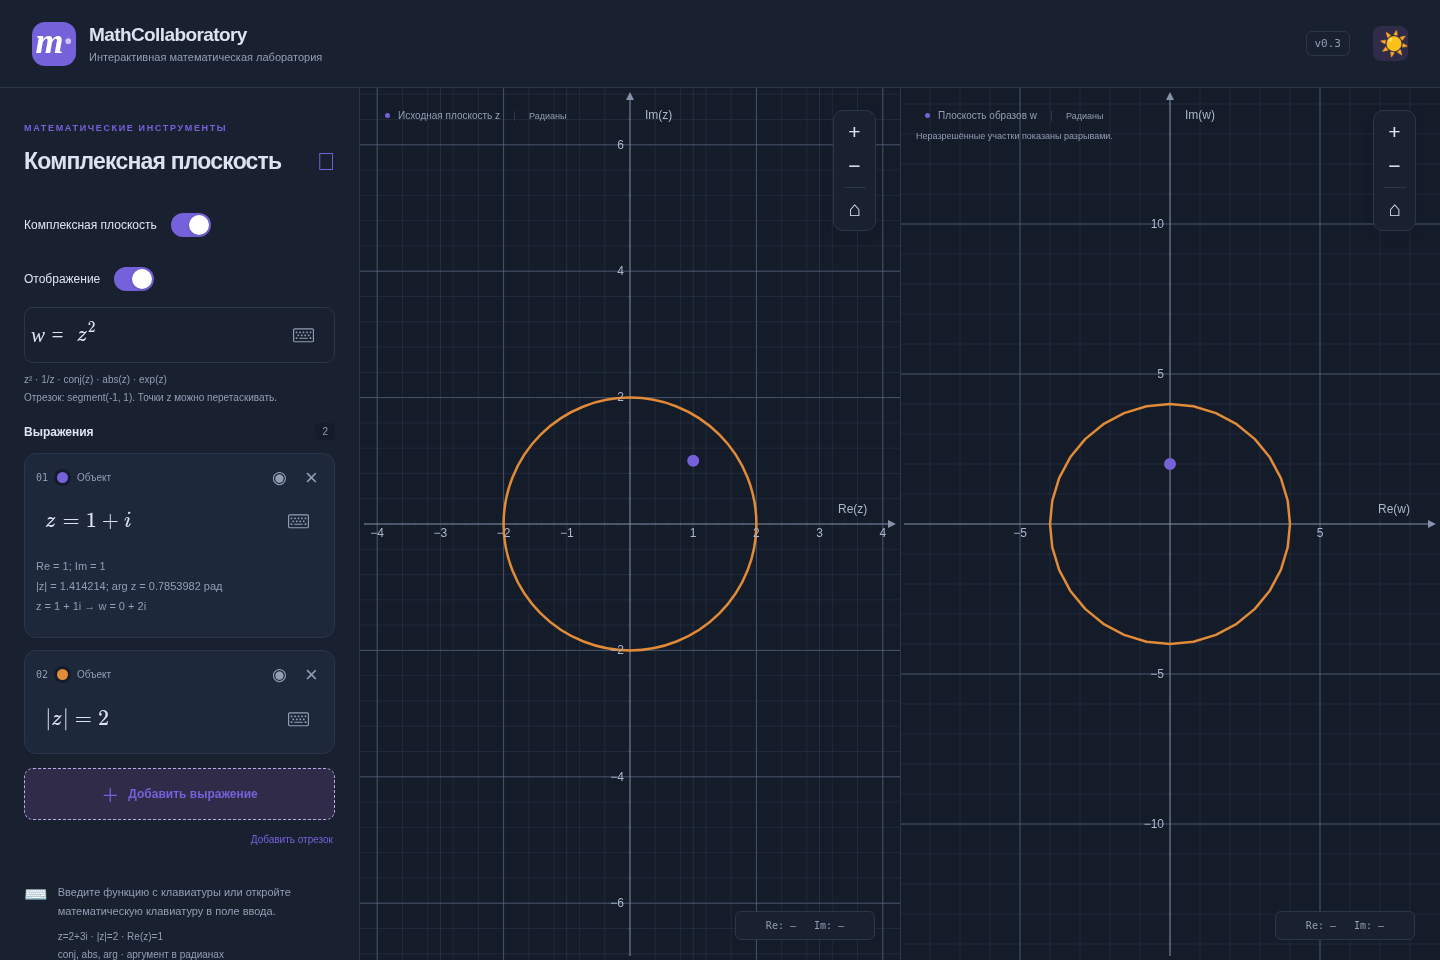
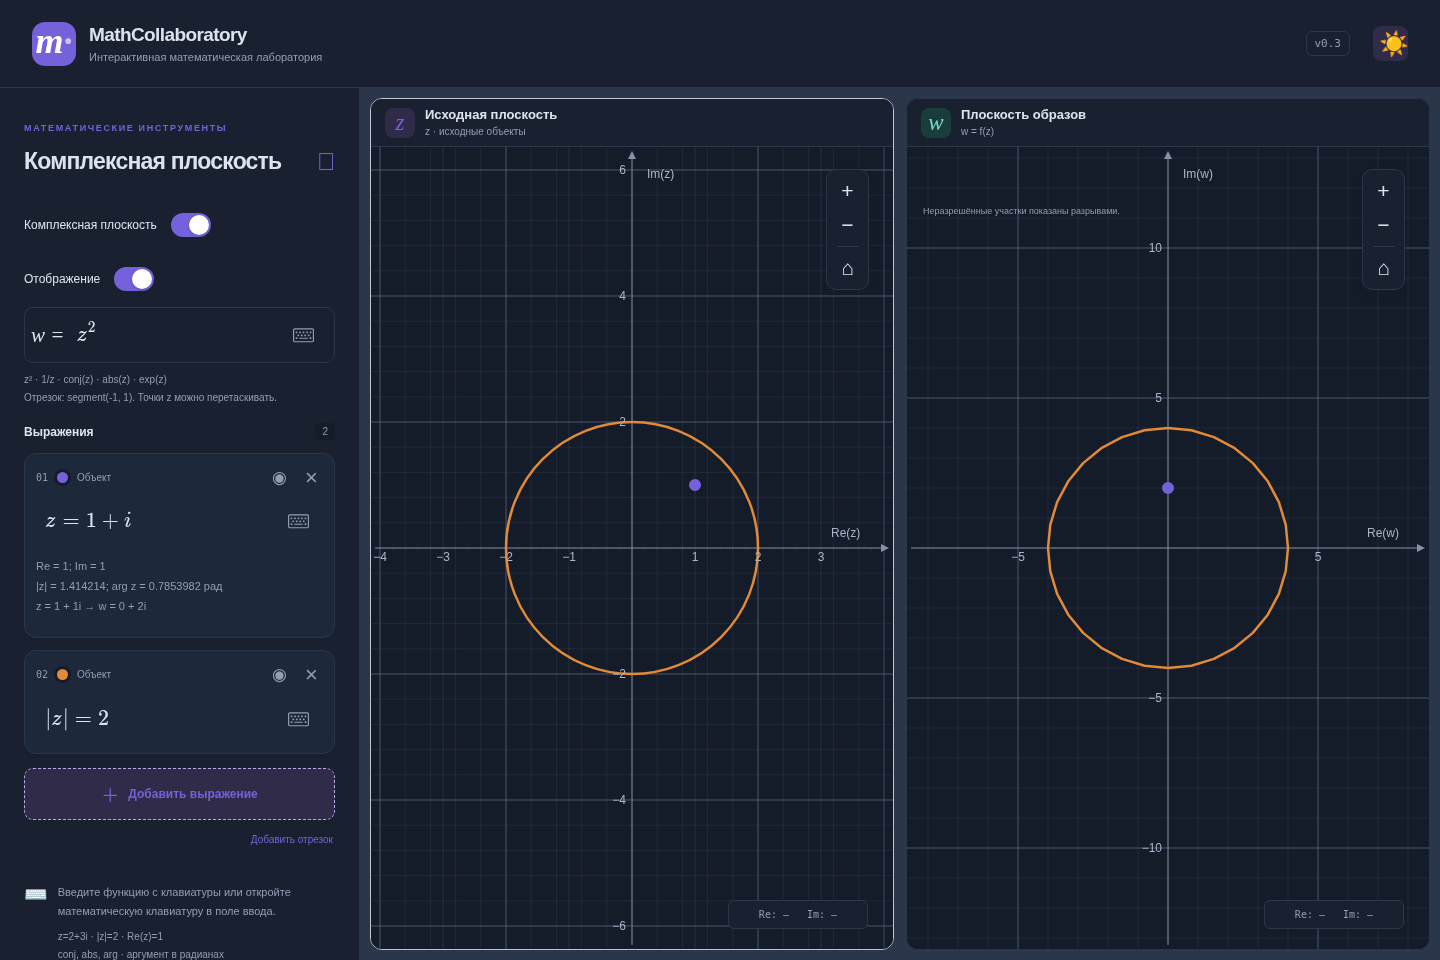
ui: distinguish source and image planes and verify mode controls

diff --git a/src/mapping/ComplexWorkspace.tsx b/src/mapping/ComplexWorkspace.tsx
@@ -6,13 +6,20 @@ import type { MappingState } from '../state/store';
 import type { Viewport } from '../state/view';
 import { useImagePlots } from './useImagePlots';
 const EMPTY:never[]=[],PARAMETERS={};
+function PlaneHeading({image,visible}:{image?:boolean;visible:boolean}){
+  return <header className={`plane-heading ${image?'image-heading':'source-heading'}`} aria-hidden={!visible}>
+    <span className="plane-badge" aria-hidden="true">{image?'w':'z'}</span>
+    <div><h2>{image?'Плоскость образов':'Исходная плоскость'}</h2><span className="plane-subtitle">{image?'w = f(z)':'z · исходные объекты'}</span></div>
+  </header>;
+}
 export function ComplexWorkspace({objects,mapping,state,viewport,theme,onSourceView,onImageView,onPointMove}:{objects:ComplexPlot[];mapping:ComplexMapping|null;state:MappingState;viewport:Viewport;theme:'light'|'dark';onSourceView:(v:Viewport)=>void;onImageView:(v:Viewport)=>void;onPointMove:PointMove}){
   const [everOpened,setEverOpened]=useState(state.enabled);
   if(state.enabled&&!everOpened)setEverOpened(true);
   const images=useImagePlots(objects,state.enabled?mapping:null);
   return <div className={`complex-workspace ${state.enabled?'has-mapping':''}`} data-mapping={state.enabled}>
-    <div className="plane-slot source-slot"><Graph mode="complex" label={state.enabled?'Исходная плоскость z':undefined} plots={EMPTY} parameters={PARAMETERS} objects={objects} viewport={viewport} theme={theme} onViewportChange={onSourceView} onPointMove={state.enabled?onPointMove:undefined}/></div>
+    <div className="plane-slot source-slot"><PlaneHeading visible={state.enabled}/><Graph mode="complex" label={state.enabled?'Исходная плоскость z':undefined} plots={EMPTY} parameters={PARAMETERS} objects={objects} viewport={viewport} theme={theme} onViewportChange={onSourceView} onPointMove={state.enabled?onPointMove:undefined}/></div>
     <div className="plane-slot image-slot" aria-hidden={!state.enabled} inert={!state.enabled}>
+      <PlaneHeading image visible={state.enabled}/>
       {(everOpened||state.enabled)&&<Graph mode="complex" axisSymbol="w" label="Плоскость образов w" plots={EMPTY} parameters={PARAMETERS} objects={images} viewport={state.viewport} theme={theme} onViewportChange={onImageView}/>}
       {state.enabled&&<p className="image-note">Неразрешённые участки показаны разрывами. {objects.some(p=>p.geometry.kind==='line')?'Образы бесконечных прямых пока не строятся.':''}</p>}
     </div>

diff --git a/src/styles.css b/src/styles.css
@@ -37,3 +37,21 @@
 
 .add-segment{align-self:flex-end;margin-top:8px;padding:6px 2px;color:var(--accent)}
 @media(max-width:580px){.mapping-hint{display:none}.mapping-editor-inner>.formula-row{margin-bottom:12px}}
+
+/* Clearly separate source and image without changing object colors. */
+.complex-workspace{gap:0;padding:0;background:var(--bg);transition:grid-template-columns 300ms ease,gap 300ms ease,padding 300ms ease}
+.complex-workspace.has-mapping{gap:12px;padding:10px;background:var(--line)}
+.plane-slot{flex-direction:column;border:1px solid transparent;transition:border-radius 300ms ease,border-color 300ms ease}
+.has-mapping .plane-slot{border-color:var(--line);border-radius:12px;background:var(--bg)}
+.plane-heading{display:flex;align-items:center;gap:10px;flex:none;height:0;opacity:0;overflow:hidden;background:var(--panel);padding:0 14px;transition:height 300ms ease,opacity 300ms ease}
+.has-mapping .plane-heading{height:48px;opacity:1;border-bottom:1px solid var(--line)}
+.plane-heading h2{font-size:13px;line-height:18px;color:var(--text)}
+.plane-subtitle{display:block;font-size:10px;line-height:15px;color:var(--muted)}
+.plane-badge{display:grid;place-items:center;flex:none;width:30px;height:30px;border-radius:8px;background:var(--hover);color:var(--accent);font:italic 23px Georgia,serif}
+.image-heading .plane-badge{background:#e3f4f0;color:#137e75}
+[data-theme=dark] .image-heading .plane-badge{background:#193d3b;color:#7cd5cb}
+.has-mapping .graph-caption{display:none}.has-mapping .image-note{top:106px}
+.image-slot:before{display:none}
+@media(max-width:1100px){.complex-workspace{transition:grid-template-rows 300ms ease,height 300ms ease,gap 300ms ease,padding 300ms ease}}
+@media(max-width:580px){.complex-workspace.has-mapping{gap:10px;padding:8px;height:max(768px,104dvh)}}
+@media(prefers-reduced-motion:reduce){.complex-workspace,.plane-slot,.plane-heading{transition:none}}

diff --git a/tests/mapping.spec.ts b/tests/mapping.spec.ts
@@ -10,6 +10,20 @@ const unit=(g:Locator)=>g.evaluate(e=>Number((e as HTMLElement).dataset.unitY));
 const view=(g:Locator)=>g.evaluate(e=>JSON.parse((e as HTMLElement).dataset.viewport!));
 test.beforeEach(async({page})=>{await page.goto('/');await expect(page.locator('math-field')).toHaveCount(2);await complex(page).click();await expect(source(page)).toHaveAttribute('data-viewport',/.+/);});
 
+test('mapping controls exist only in complex mode and retain settings while hidden',async({page})=>{
+  await complex(page).click();await expect(toggle(page)).toHaveCount(0);
+  await expect(page.locator('.mapping-controls')).toHaveCount(0);
+  await complex(page).click();await expect(toggle(page)).not.toBeChecked();
+  await toggle(page).click();await formula(page,'conj(z)');
+  await expect(page.getByRole('heading',{name:'Исходная плоскость',exact:true})).toBeVisible();
+  await expect(page.getByRole('heading',{name:'Плоскость образов',exact:true})).toBeVisible();
+  await complex(page).click();await expect(toggle(page)).toHaveCount(0);
+  await expect(page.locator('math-field[aria-label="Формула отображения"]')).toHaveCount(0);
+  await page.reload();await expect(toggle(page)).toHaveCount(0);
+  await complex(page).click();await expect(toggle(page)).toBeChecked();
+  expect(await page.locator('math-field[aria-label="Формула отображения"]').evaluate(e=>(e as HTMLElement&{value:string}).value)).toBe('conj(z)');
+});
+
 test('animated layout retains board identities, center and unit scale through rapid toggles',async({page})=>{
   const s=source(page),beforeUnit=await unit(s),beforeView=await view(s),id=await s.getAttribute('id');
   const fullWidth=(await s.boundingBox())!.width;

diff --git a/VERIFICATION.md b/VERIFICATION.md
@@ -73,9 +73,11 @@ pnpm test:browser
 
 ## v0.3 — комплексные отображения
 
-233 модульных теста, 29 сценариев Chromium, TypeScript и production build.
+233 модульных теста, 30 сценариев Chromium, TypeScript и production build.
 Проверены безопасный AST-вычислитель, параметрические образы окружностей и
 отрезков, разрывы у полюсов, drag точек, независимые окна, сохранение,
 CSS-анимации, мобильная компоновка и reduced motion. WebKit-проект в CI
-расширен с четырёх до восьми сценариев.
+расширен с четырёх до девяти сценариев.
+Проверены отсутствие переключателя отображений в вещественном режиме,
+восстановление его настроек и отдельные заголовки плоскостей z и w.
 Подробный отчёт: [docs/complex-mappings-v0.3.md](docs/complex-mappings-v0.3.md).
